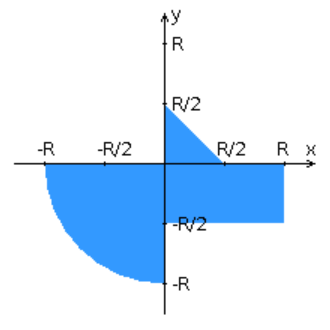
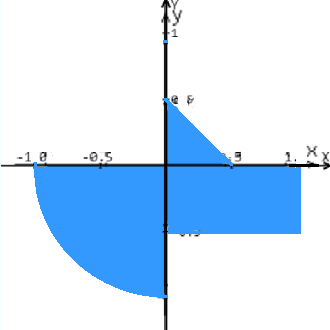
fixed points in canvas

Changed region(s): [[0.0, 0.0, 1.0, 1.0]]

diff --git a/src/main/webapp/resources/js/chart.js b/src/main/webapp/resources/js/chart.js
@@ -19,10 +19,10 @@ const signsFont = "14px monospace";
 
 function draw() {
 	let canvas = $("#task-chart")[0];
-	// drawAxises(canvas);
-	// drawAxisesSigns(canvas);
+	drawAxises(canvas);
+	drawAxisesSigns(canvas);
 	let R = document.getElementById('computation-form:slider-input-R').value;
-	// drawPointsSigns(canvas, R);
+	drawPointsSigns(canvas, R);
 	if (!$("#result-table-container").hasClass("hidden")) {
 		let results = $("#result-table tbody tr");
 		for (var i = results.length - 1; i >= 0; i--) {
@@ -31,7 +31,7 @@ function draw() {
 			let R = document.getElementById('computation-form:slider-input-R').value;
 			let originalX = toOriginalX(X, R);
 			let originalY = toOriginalY(Y, R);
-			if (results.eq(i).find("td").eq(4).text().trim() === "Да") {
+			if (results.eq(i).find("td").eq(3).text().trim() === "Да") {
 				drawPoint(canvas, originalX, originalY, "Green");
 			} else {
 				drawPoint(canvas, originalX, originalY, "Red");
@@ -132,6 +132,7 @@ function drawPointsSigns(canvas, r) {
 	context.fillText(sign, canvas.width / 2 + signSpace / 2, canvas.height * 0.1 + signSpace / 2);
 }
 
+
 function drawPoint(canvas, x, y, pointColor) {
 	let context = canvas.getContext("2d");
 	context.beginPath();
@@ -160,9 +161,4 @@ function updateR() {
 	let R = document.getElementById('computation-form:slider-input-R').value;
 	document.getElementById('r-update-form:current-r').value = R;
 	document.getElementById('r-update-form:r-update-form-button').click();
-}
-
-function reload() {
-	var loc = window.location;
-	window.location = loc.protocol + '//' + loc.host + loc.pathname + loc.search;
 }

diff --git a/src/main/webapp/resources/css/home.css b/src/main/webapp/resources/css/home.css
@@ -63,8 +63,8 @@ label{
 #task-chart,
 #task-chart-image,
 #chart-box{
-	width: 330px;
-	height: 330px;
+	width: 325px;
+	height: 325px;
 }
 
 #chart-box{

diff --git a/src/main/java/beans/AreaChecker.java b/src/main/java/beans/AreaChecker.java
@@ -80,14 +80,14 @@ public class AreaChecker implements Serializable {
         history.addFirst(userPoint);
     }
 
-    private boolean isHit(Point currentPoint){
+    public boolean isHit(Point currentPoint){
         double x = currentPoint.getX();
         double y = currentPoint.getY();
         double r = currentPoint.getR();
         double halfR = currentPoint.getR()/2;
 
-        return x >= 0 && y >= 0 && y < halfR - x / 2 ||
+        return x >= 0 && y >= 0 && y < halfR - x ||
                 x >= 0 && y <= 0 && x <= r && y >= -halfR ||
-                x <= 0 && y <= 0 && x*x + y*y < r*r;
+                x <= 0 && y <= 0 && x*x + y*y <= r*r;
     }
 }

diff --git a/src/main/java/util/ConfigReader.java b/src/main/java/util/ConfigReader.java
@@ -16,7 +16,7 @@ public class ConfigReader {
         ConfigReader creator = new ConfigReader();
 
         try(InputStream is = creator.getClass().getClassLoader()
-                .getResourceAsStream("./recources/hibernate.properties")){
+                .getResourceAsStream("hibernate.properties")){
             properties.load(is);
             propValue = properties.getProperty(propName);
         }catch(IOException e){
